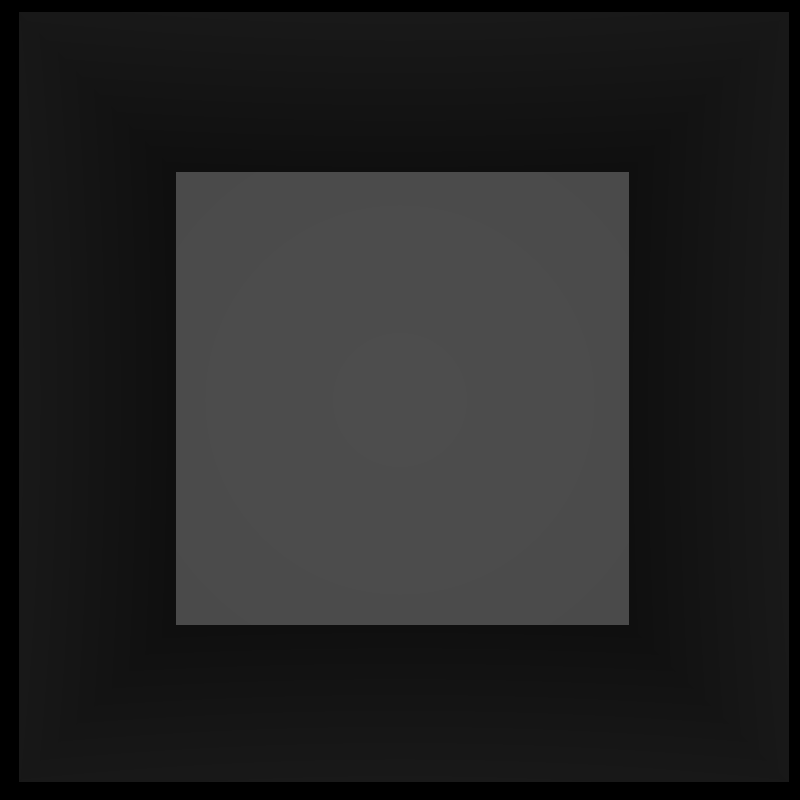
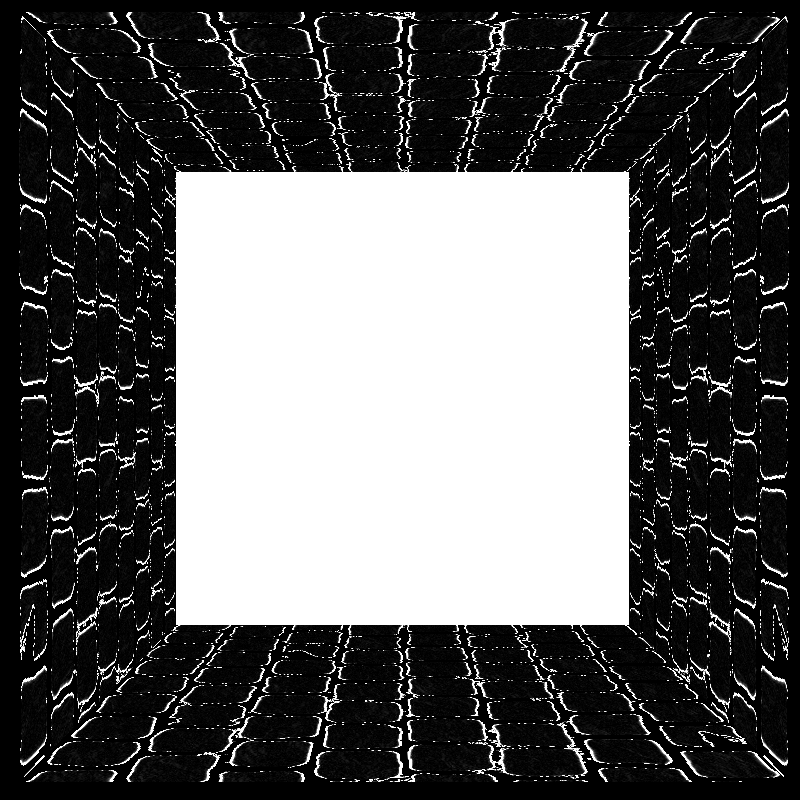
Update: bump mapping with jugaaad

diff --git a/rt/textures/imagetex.cpp b/rt/textures/imagetex.cpp
@@ -49,9 +49,10 @@ namespace rt
         }
         return std::pair <float,float>(fu, fv);
     }
-    RGBColor ImageTexture::getColorAtXY(const float x, const float y) const
+
+
+    RGBColor ImageTexture::getColor(const Point& coord)
     {
-        Point coord = Point(x, y, 0.0f);
         auto tutv = getTextureCoordinates(coord);
         float tu = tutv.first;
         float tv = tutv.second;
@@ -94,22 +95,20 @@ namespace rt
                                 + ((    fu) * (    fv) * image(std::fmin(floor(u) + 1, image.width() - 1), std::fmin(floor(v) + 1, image.height() - 1))));
         }
     }
-
-    RGBColor ImageTexture::getColor(const Point& coord)
-    {
-       return getColorAtXY(coord.x, coord.y);
-    }
     RGBColor ImageTexture::getColorDX(const Point& coord)
     {
-		RGBColor first = getColorAtXY(coord.x, coord.y);
-		RGBColor second = getColorAtXY(coord.x + 1, coord.y);
+        Point p1 = Point(coord.x, coord.y, 0.0f);
+        Point p2 = Point(coord.x + (1.0f/ image.width()), coord.y, 0.0f);
+        RGBColor first = getColor(p1);
+        RGBColor second = getColor(p2);
+        // std::cout << p1 << std::endl <<  p2 << std::endl;
         return first - second; //TODO: check is this right?
         
     }
     RGBColor ImageTexture::getColorDY(const Point& coord)
     {
-		RGBColor first = getColorAtXY(coord.x, coord.y);
-		RGBColor second = getColorAtXY(coord.x, coord.y + 1);
+        RGBColor first = getColor(Point(coord.x, coord.y, 0.0f));
+        RGBColor second = getColor(Point(coord.x , coord.y + (1.0f/ image.height()), 0.0f));
         return first - second; //TODO: check is this right?
     }
 }

diff --git a/rt/primmod/bmap.cpp b/rt/primmod/bmap.cpp
@@ -28,14 +28,18 @@ namespace rt
 		if (triangleInt)
 		{
 			Point texturePoint = baseT->texMapper->getCoords(triangleInt);
+			// std::cout << texturePoint << std::endl;
 			// gradient at the given texture coordinates
-			float DX = bMap->getColorDX(texturePoint).grayscale();
+			float DX = bMap->getColorDX(texturePoint).grayscale();	
 			
 			float DY = bMap->getColorDY(texturePoint).grayscale();
 			
 			//perturb the normal in world space
-			Vector newNormal = Vector(DX * triangleInt.normal().x, DY * triangleInt.normal().y, triangleInt.normal().z);
-
+			//JUGAAD :/
+			Vector newNormal = Vector(DX * triangleInt.normal().x * 100.0f, DY * triangleInt.normal().y * 100.0f, triangleInt.normal().z * 100.0f);
+			// std::cout << triangleInt.normal() << std::endl;
+			// std::cout << newNormal << std::endl;
+			// std::cout << std::endl;
 			triangleInt.setNormal(newNormal);	
 		}
 		return triangleInt;

diff --git a/rt/textures/imagetex.h b/rt/textures/imagetex.h
@@ -24,7 +24,6 @@ public:
     ImageTexture(const Image& image, BorderHandlingType bh=REPEAT, InterpolationType i=BILINEAR);
     ImageTexture(const std::string& filename, BorderHandlingType bh=REPEAT, InterpolationType i=BILINEAR);
     std::pair <float,float> getTextureCoordinates(const Point& coord) const;
-    RGBColor getColorAtXY(const float x, const float y) const;
     virtual RGBColor getColor(const Point& coord);
     virtual RGBColor getColorDX(const Point& coord);
     virtual RGBColor getColorDY(const Point& coord);
